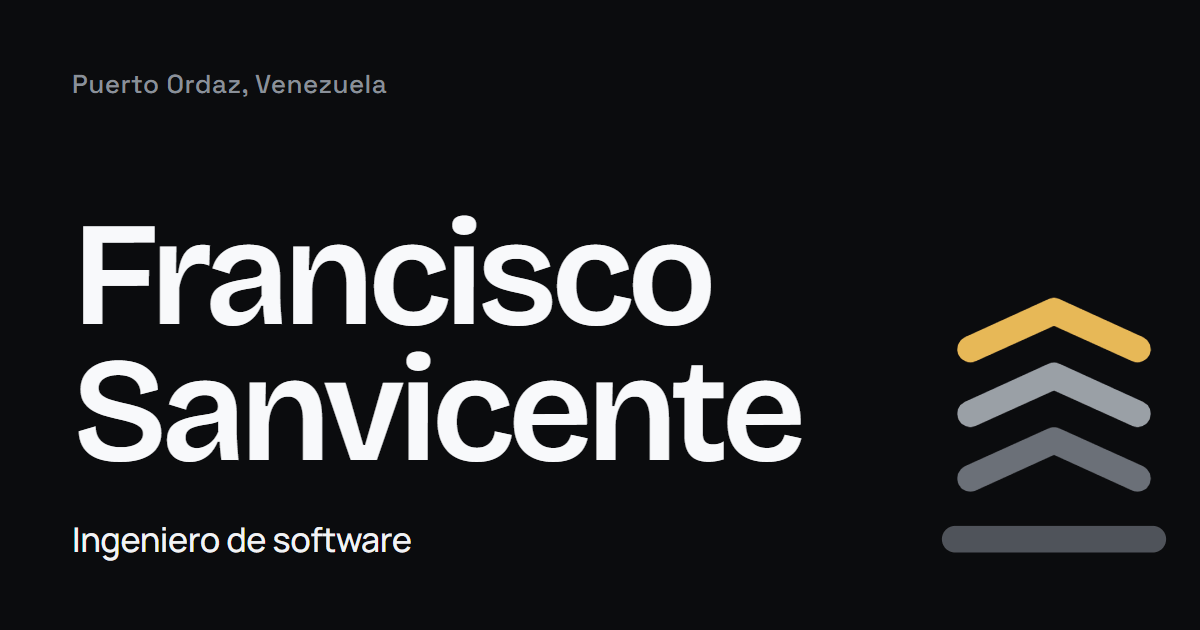
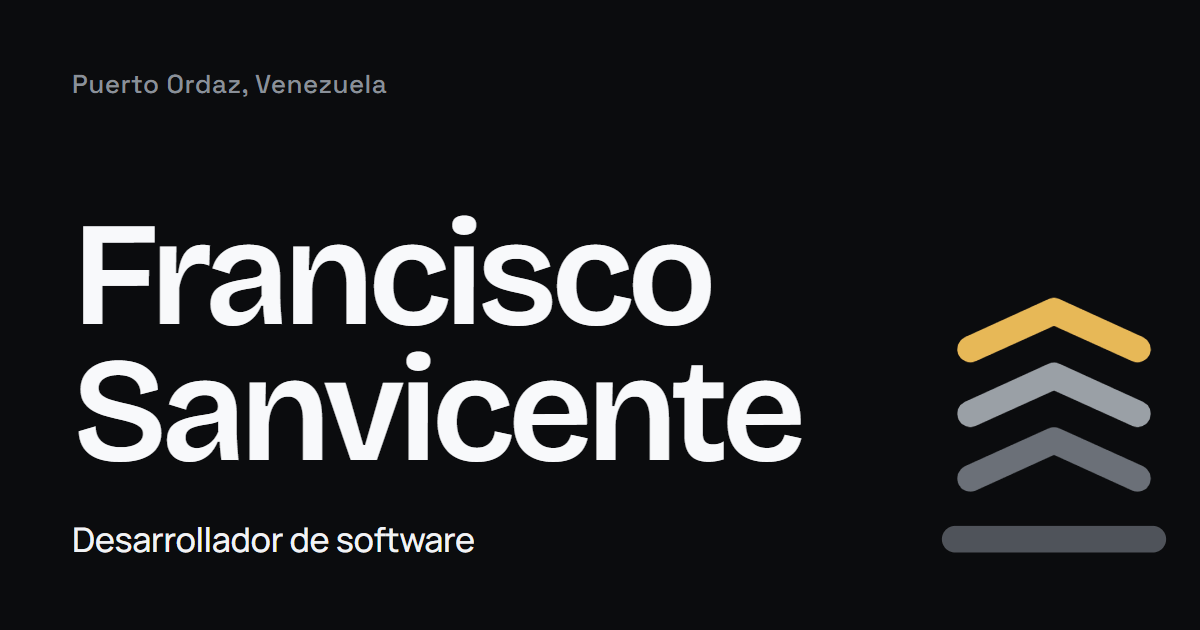
fix: «Desarrollador de software» en lugar de «Ingeniero de software»
Francisco aún no tiene el título de ingeniero (título regulado en Venezuela). Cambia el rol, el
lede, las bios, las descripciones, el manifest, el handoff y la imagen OG regenerada.

Changed region(s): [[0.0617, 0.8444, 0.4008, 0.9048]]

diff --git a/src/data/perfil.ts b/src/data/perfil.ts
@@ -7,22 +7,22 @@ export const perfil = {
   /** Partes del nombre para `profile:first_name/last_name` y la tarjeta OG (no se parte `nombre`). */
   nombrePila: 'Francisco',
   apellidos: 'Sanvicente',
-  rol: 'Ingeniero de software',
+  rol: 'Desarrollador de software',
   /** Línea del hero, debajo del nombre. */
-  lede: 'Ingeniero de software. Construyo apps móviles, web y el backend que las sostiene.',
+  lede: 'Desarrollador de software. Construyo apps móviles, web y el backend que las sostiene.',
   /** Bio visible (Trayectoria), en primera persona y con el nombre completo en la primera frase. */
-  bio: 'Soy Francisco Sanvicente, ingeniero de software de Puerto Ordaz, Venezuela. Llevo seis años construyendo productos web y móviles: he trabajado como full stack en equipos de producto, encargándome tanto de la interfaz como del backend que la sostiene. En 2026 fundé Sumari, una app de finanzas personales que reúne bolívares, dólares, USDT y euros en un solo total a la tasa del día, hecha para la forma en que la gente en Venezuela maneja de verdad su dinero.',
+  bio: 'Soy Francisco Sanvicente, desarrollador de software de Puerto Ordaz, Venezuela. Llevo seis años construyendo productos web y móviles: he trabajado como full stack en equipos de producto, encargándome tanto de la interfaz como del backend que la sostiene. En 2026 fundé Sumari, una app de finanzas personales que reúne bolívares, dólares, USDT y euros en un solo total a la tasa del día, hecha para la forma en que la gente en Venezuela maneja de verdad su dinero.',
   /** La misma bio en tercera persona: solo para máquinas (description del JSON-LD y llms.txt), que
       describen a la persona desde fuera. */
   bioLarga:
-    'Francisco Sanvicente es un ingeniero de software venezolano, de Puerto Ordaz, con seis años construyendo productos web y móviles. Ha trabajado como full stack en equipos de producto, encargándose tanto de la interfaz como del backend que la sostiene. En 2026 fundó Sumari, una app de finanzas personales que reúne bolívares, dólares, USDT y euros en un solo total a la tasa del día, hecha para la forma en que la gente en Venezuela maneja de verdad su dinero.',
+    'Francisco Sanvicente es un desarrollador de software venezolano, de Puerto Ordaz, con seis años construyendo productos web y móviles. Ha trabajado como full stack en equipos de producto, encargándose tanto de la interfaz como del backend que la sostiene. En 2026 fundó Sumari, una app de finanzas personales que reúne bolívares, dólares, USDT y euros en un solo total a la tasa del día, hecha para la forma en que la gente en Venezuela maneja de verdad su dinero.',
   /** La descripción en tercera persona, para la ficha de la página en el JSON-LD (ProfilePage). */
   descripcionTercera:
-    'Francisco Sanvicente es ingeniero de software en Puerto Ordaz, Venezuela, y creador de Sumari. Construye apps móviles, web y backend con React Native y Node.js.',
+    'Francisco Sanvicente es desarrollador de software en Puerto Ordaz, Venezuela, y creador de Sumari. Construye apps móviles, web y backend con React Native y Node.js.',
   /** Meta description y og:description (el texto bajo el enlace en Google y al compartir): primera
       persona, como el resto de la página, con el nombre completo; ≤ 160 caracteres. */
   descripcion:
-    'Soy Francisco Sanvicente, ingeniero de software en Puerto Ordaz, Venezuela, y creador de Sumari. Construyo apps móviles, web y backend.',
+    'Soy Francisco Sanvicente, desarrollador de software en Puerto Ordaz, Venezuela, y creador de Sumari. Construyo apps móviles, web y backend.',
   /** Otros nombres con los que se le conoce (`alternateName`). Vacío hasta que Francisco lo confirme. */
   alias: [] as string[],
   /** Última revisión del contenido (dateModified del JSON-LD), en ISO 8601 con hora y zona horaria

diff --git a/docs/design/handoff.md b/docs/design/handoff.md
@@ -19,7 +19,7 @@ y que el 3D acompañe toda la página, también en móvil. Esta sección **susti
 `.stage` y su columna sticky ya no existen), al orden de §3/§4 y a la coreografía de §5. Lo demás
 (tipografía, espaciado, §6, §7) sigue vigente.
 
-- **Identidad:** "Ingeniero de software" bajo el nombre; Sumari pasa a ser "Sumari, mi producto".
+- **Identidad:** "Desarrollador de software" bajo el nombre (2026-10-18: no "Ingeniero", porque aún no tiene el título); Sumari pasa a ser "Sumari, mi producto".
 - **Orden:** Hero → Servicios (capa 01) → Sumari (02) → Trayectoria (03) → Con qué construyo (04)
   → Cómo pienso (05) → Contacto (06). Nav: Servicios · Sumari · Trayectoria · Contacto.
 - **Escenario:** una capa fija a pantalla completa (`Escenario.astro`, 100lvh, z 0, sin eventos)
